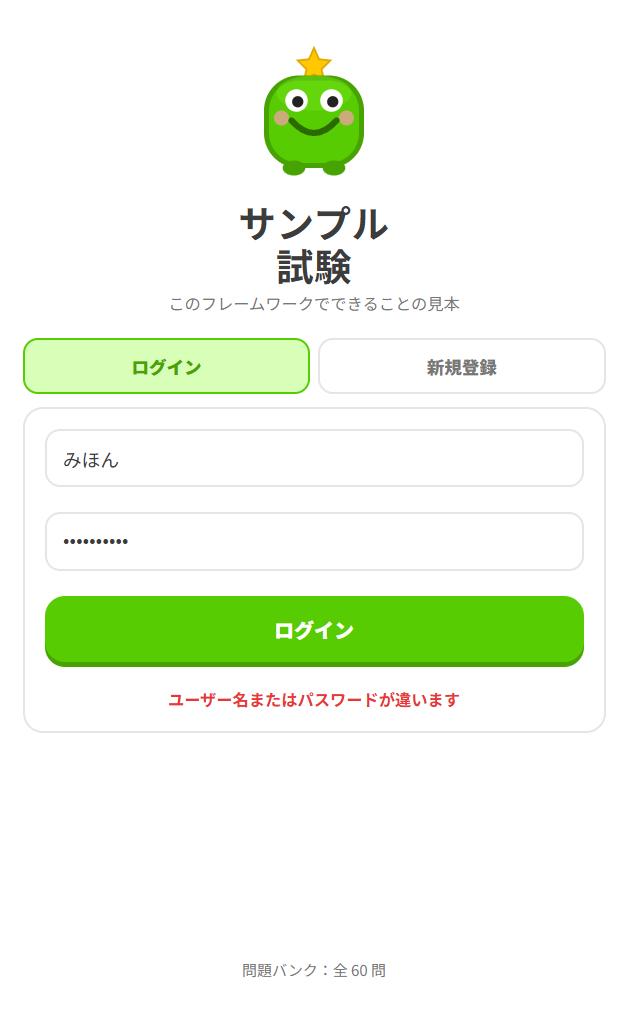
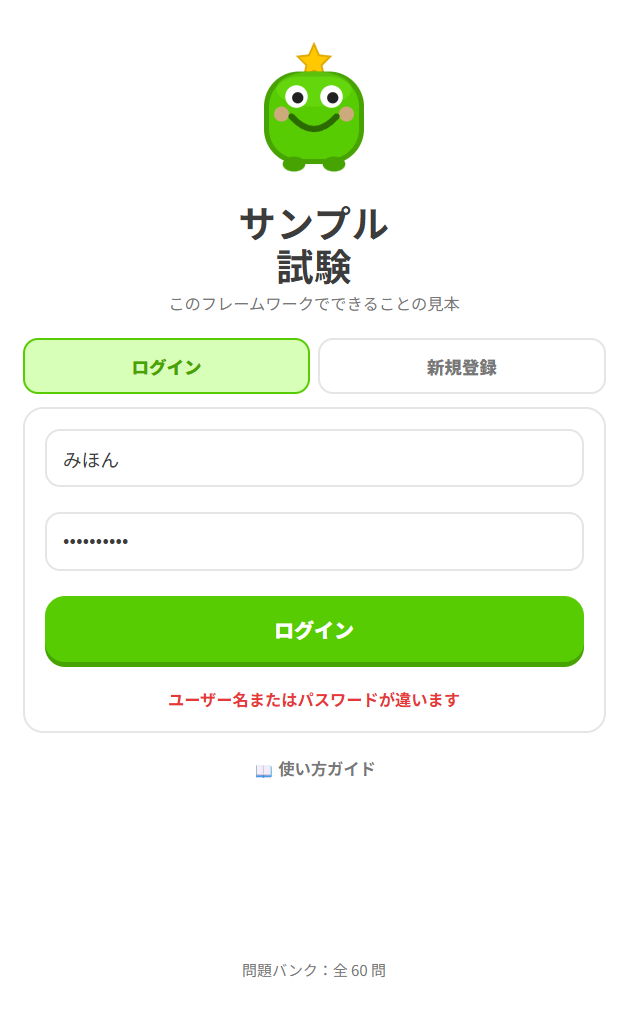
feat(app): ログイン画面とホームに使い方ガイドへのリンクを追加
リンク先は core/app/js/config.js の APP_CONFIG.userGuide で設定する。
url を '' にすればリンク自体を出さないので、自前のガイドを持つ配布でも
差し替え・非表示にできる（コアに特定 URL を埋め込まない）。

- index.html: authPanel と userPanel に空の <a> を1つずつ置く
- app.js: applyGuideLink() で href とラベルを流し込み、url があれば表示
- style.css: .guide-link（控えめなテキストリンク）
- sw.js: 既存インストールに配信するため CACHE を quiz-v17 に更新

ユーザーガイド側も、リンクが写るようログイン・ホームの画面写真を
撮り直し、03 章のホーム画面の表に1行足した。

Changed region(s): [[0.4236, 0.0305, 0.5748, 0.1829], [0.4236, 0.7316, 0.6051, 0.762]]

diff --git a/core/app/index.html b/core/app/index.html
@@ -44,6 +44,7 @@
           <p id="authNote" class="auth-note hidden">お試し用のアカウントを自動で作成します。成績は毎回まっさらな状態から始まり、ブラウザを閉じると引き継がれません。</p>
           <p id="authError" class="auth-error"></p>
         </div>
+        <a id="guideLinkAuth" class="guide-link hidden" target="_blank" rel="noopener"></a>
       </div>
 
       <!-- ログイン時 -->
@@ -54,6 +55,7 @@
         <button id="goSetupBtn" class="btn btn-primary btn-block">学習をはじめる</button>
         <button id="goStatsBtn" class="btn btn-ghost btn-block">成績を見る</button>
         <button id="logoutBtn" class="btn btn-ghost btn-block">ログアウト</button>
+        <a id="guideLinkHome" class="guide-link hidden" target="_blank" rel="noopener"></a>
       </div>
 
       <p class="bank-info" id="bankInfo"></p>

diff --git a/core/app/js/app.js b/core/app/js/app.js
@@ -773,9 +773,24 @@
     $('optExamLabel').textContent = `本番モード（${EXAM_N}問・${Math.round(EXAM_SEC / 60)}分）`;
   }
 
+  // 使い方ガイドへのリンク（ログイン画面・ホームの2か所）。
+  // APP_CONFIG.userGuide.url が空なら出さない。
+  function applyGuideLink() {
+    const g = CONFIG.userGuide || {};
+    if (!g.url) return;
+    ['guideLinkAuth', 'guideLinkHome'].forEach((id) => {
+      const a = $(id);
+      if (!a) return;
+      a.href = g.url;
+      a.textContent = g.label || '使い方ガイド';
+      a.classList.remove('hidden');
+    });
+  }
+
   async function boot() {
     bind();
     setAuthMode('login');
+    applyGuideLink();
     updateLangToggles();
     await initHome();
     if (!await startPendingQ()) show('home');

diff --git a/core/app/js/config.js b/core/app/js/config.js
@@ -1,5 +1,12 @@
 /* アプリ設定。表示メッセージ等はロジックにハードコードせずここに記載する。 */
 window.APP_CONFIG = {
+  // 使い方ガイドへのリンク。ログイン画面とホームに表示する。
+  // url を '' にするとリンク自体を出さない。自前のガイドがあれば差し替える。
+  userGuide: {
+    url: 'https://kumapapa2012.github.io/anyexam-prepkit/user_guide/index.html',
+    label: '📖 使い方ガイド',
+  },
+
   streak: {
     // マイルストーン: ストリークが at に一致、または every 指定時は at 以降 every の倍数のとき、
     // messages から1つをランダムに表示（その日初達成時のみ）。

diff --git a/core/app/css/style.css b/core/app/css/style.css
@@ -108,6 +108,9 @@ button{font-family:inherit;cursor:pointer}
 .q-text{font-size:18px;line-height:1.6;font-weight:600;white-space:pre-wrap}
 .q-text p{margin:0 0 8px}
 .auth-note{margin:10px 2px 0;font-size:12px;line-height:1.6;color:var(--muted)}
+.guide-link{display:block;text-align:center;margin-top:12px;padding:6px;
+  font-size:13px;font-weight:700;color:var(--muted);text-decoration:none}
+.guide-link:hover{color:var(--green-d);text-decoration:underline}
 .multi-hint{margin:0;font-size:13px;font-weight:700;color:var(--blue);
   background:#e8f7ff;border-radius:10px;padding:8px 12px}
 

diff --git a/docs/user_guide/03_getting_started.html b/docs/user_guide/03_getting_started.html
@@ -121,6 +121,7 @@
             <tr><td>学習をはじめる</td><td>問題を解く。ここから始める</td></tr>
             <tr><td>成績を見る</td><td>通算の成績を確認する</td></tr>
             <tr><td>問題バンク：全 N 問</td><td>この試験に入っている問題の総数</td></tr>
+            <tr><td>📖 使い方ガイド</td><td>このガイドを開く</td></tr>
             <tr><td>🌐 ボタン</td><td>原文と訳文の切り替え（訳文がある試験のみ）</td></tr>
           </tbody>
         </table>

diff --git a/core/app/sw.js b/core/app/sw.js
@@ -1,7 +1,7 @@
 /* Service Worker：オフライン学習のためにアプリ一式をキャッシュ。
    方針＝ネットワーク優先（オンライン時は常に最新、失敗時のみキャッシュ）。
    /api/ はサーバー記録のため常にネットワーク直行（キャッシュしない）。 */
-const CACHE = 'quiz-v16';
+const CACHE = 'quiz-v17';
 const ASSETS = [
   './',
   './index.html',
